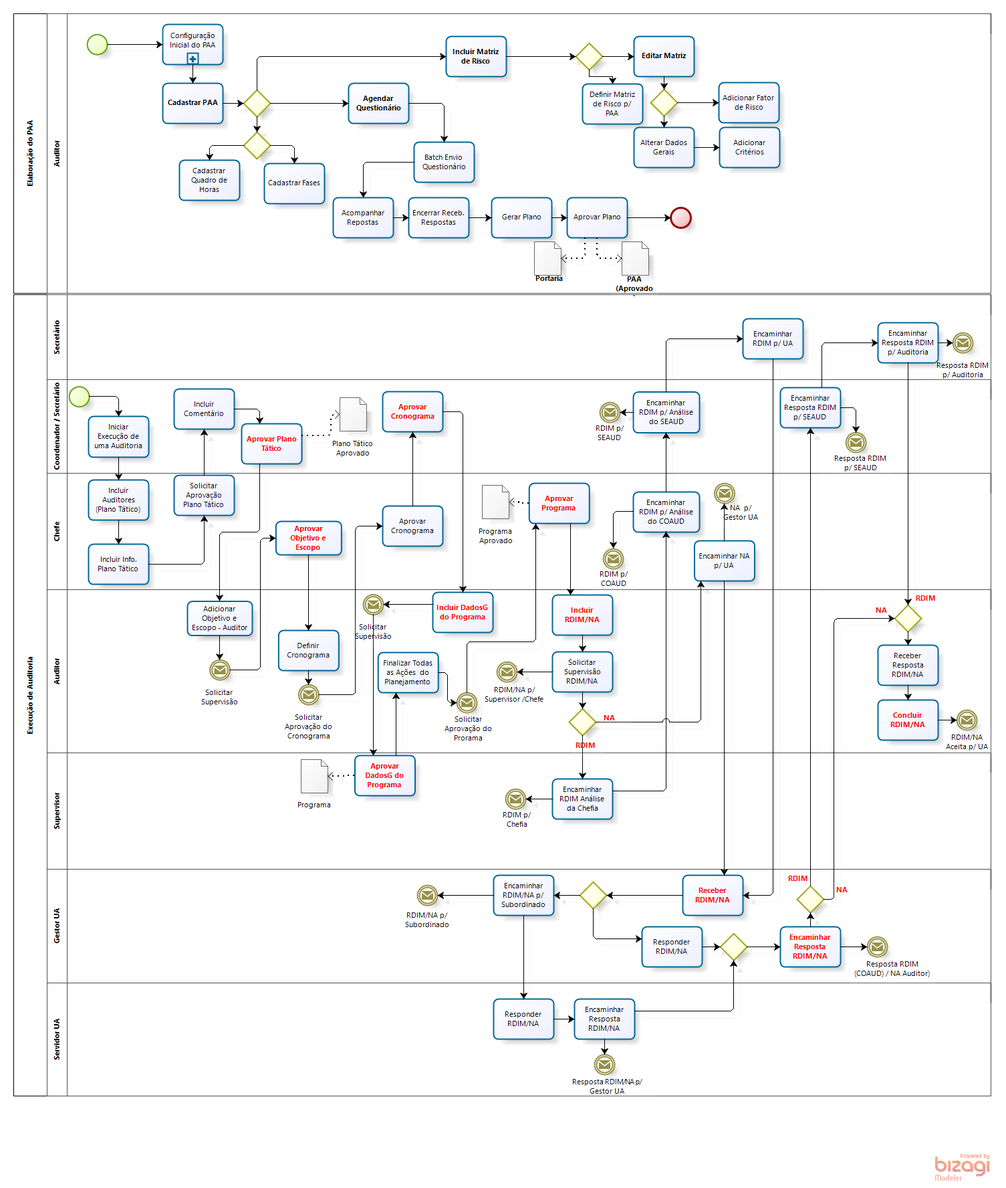
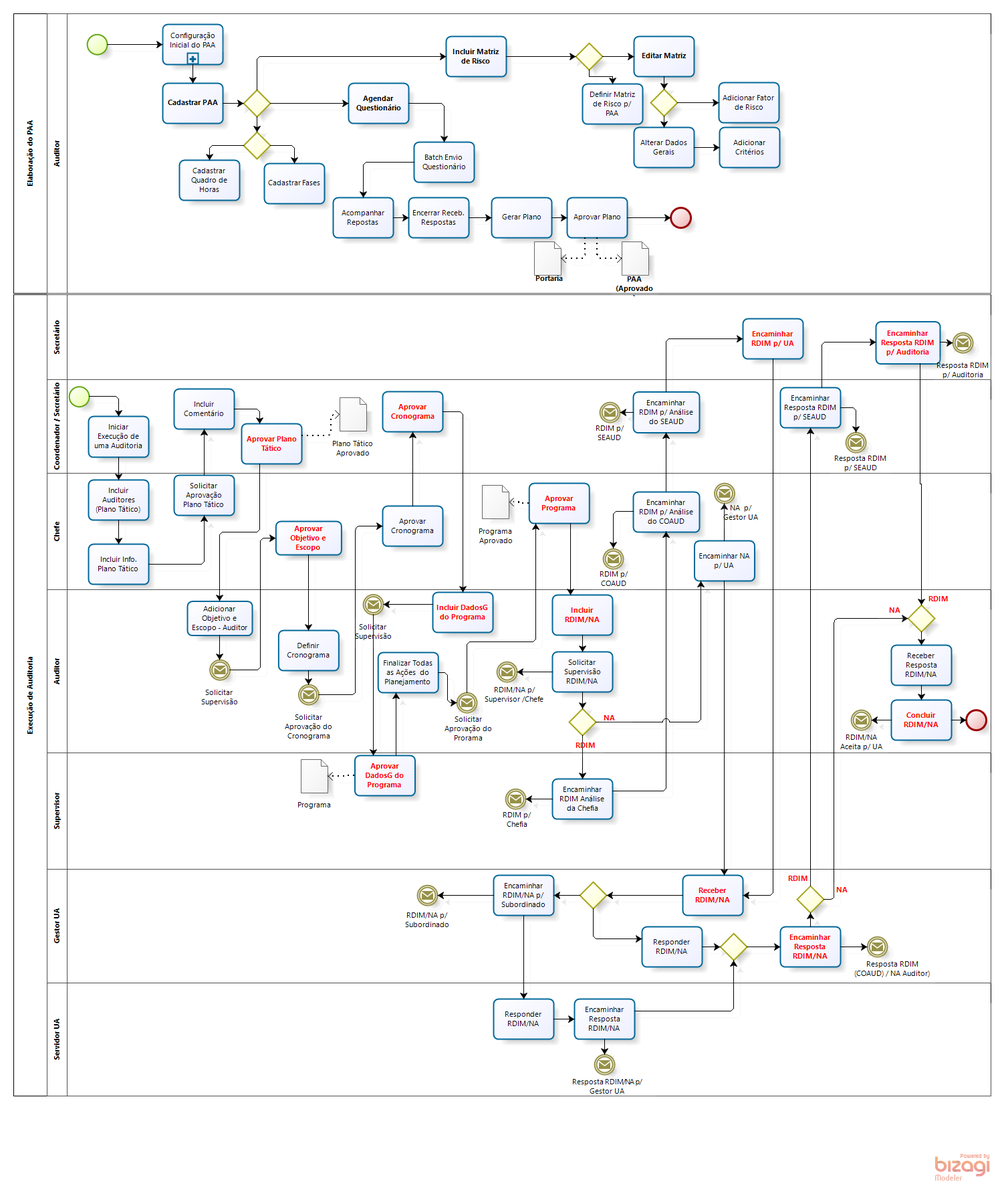
inclusão estado final

Changed region(s): [[0.8432, 0.4955, 0.9993, 0.6503], [0.8432, 0.2787, 0.9369, 0.3097], [0.7495, 0.2787, 0.7807, 0.3097]]

diff --git a/libs/js/json/configuration.json.js b/libs/js/json/configuration.json.js
@@ -1,1 +1,1 @@
-Bizagi.AppModel = {"personalized":false,"userLogoName":"\\libs\\img\\biz-ex-logo.png","bizagiUrl":"http://www.bizagi.com","productName":"Bizagi Process Modeler","modelName":"Modelo-Auditoria-Auditse-Mar2022","publishDate":"11/04/2022 15:09:28","pages":[{"id":"d9d00fad-af1b-4e36-8f85-a32fcf3fabb2","name":"Auditoria-AUDITSE","version":"1.0","author":"marco.fagundes","image":"files\\diagrams\\Auditoria_AUDITSE.png","isSubprocessPage":false,"elements":[{"id":"cdb811c3-db5f-474d-a92e-74e034d00939","name":"Elaboração do PAA","elementImage":"files\\bpmnElements\\Participant.png","imageBounds":{"points":[{"x":20.0,"y":20.0}],"radius":0.0,"height":418.0,"width":50.0,"shape":"rect"},"elementType":"Participant","pageElements":[{"id":"0f4d90c4-25eb-4bb4-8112-ff71532773ba","name":"None","elementImage":"files\\bpmnElements\\NoneStart.png","imageBounds":{"points":[{"x":130.0,"y":51.0}],"radius":15.0,"height":30.0,"width":30.0,"shape":"circle"},"elementType":"NoneStart"},{"id":"db697634-05e9-4420-bfb9-722cca75cc9e","name":"Configuração Inicial do PAA","elementImage":"files\\bpmnElements\\SubProcess.png","imageBounds":{"points":[{"x":243.0,"y":36.0}],"radius":0.0,"height":60.0,"width":90.0,"shape":"rect"},"elementType":"SubProcess","properties":[]},{"id":"d4d45024-5d62-435c-858c-c89209b5867d","name":"Cadastrar PAA","elementImage":"files\\bpmnElements\\AbstractTask.png","imageBounds":{"points":[{"x":243.0,"y":124.0}],"radius":0.0,"height":60.0,"width":90.0,"shape":"rect"},"elementType":"AbstractTask","properties":[]},{"id":"f3520a76-0c1c-4c07-80db-3bef34a13c8c","name":"Exclusive Gateway","elementImage":"files\\bpmnElements\\ExclusiveGateway.png","imageBounds":{"points":[{"x":364.0,"y":134.0}],"radius":0.0,"height":40.0,"width":40.0,"shape":"poly"},"elementType":"ExclusiveGateway","properties":[],"pageElements":[{"name":"Incluir Matriz de Risco","elementType":"SequenceFlow","properties":[]},{"name":"Agendar Questionário","elementType":"SequenceFlow","properties":[]},{"name":"Gate","elementType":"SequenceFlow","properties":[]}]},{"id":"dd511d74-d944-4596-923b-302c3f1eca49","name":"Incluir Matriz de Risco","elementImage":"files\\bpmnElements\\AbstractTask.png","imageBounds":{"points":[{"x":667.0,"y":54.0}],"radius":0.0,"height":60.0,"width":90.0,"shape":"rect"},"elementType":"AbstractTask","properties":[]},{"id":"6169a1b1-a44e-453b-aacf-2db4d2c795b6","name":"Exclusive Gateway","elementImage":"files\\bpmnElements\\ExclusiveGateway.png","imageBounds":{"points":[{"x":861.0,"y":64.0}],"radius":0.0,"height":40.0,"width":40.0,"shape":"poly"},"elementType":"ExclusiveGateway","properties":[],"pageElements":[{"name":"Definir Matriz de Risco p/ PAA","elementType":"SequenceFlow","properties":[]},{"name":"Editar Matriz","elementType":"SequenceFlow","properties":[]}]},{"id":"ccb71a5c-7ef9-4b13-bc2b-cf90ee5f05ba","name":"Definir Matriz de Risco p/ PAA","elementImage":"files\\bpmnElements\\AbstractTask.png","imageBounds":{"points":[{"x":871.0,"y":125.0}],"radius":0.0,"height":60.0,"width":90.0,"shape":"rect"},"elementType":"AbstractTask","properties":[]},{"id":"853791a1-e6da-4a81-97f1-3533fee22e99","name":"Editar Matriz","elementImage":"files\\bpmnElements\\AbstractTask.png","imageBounds":{"points":[{"x":948.0,"y":54.0}],"radius":0.0,"height":60.0,"width":90.0,"shape":"rect"},"elementType":"AbstractTask","properties":[]},{"id":"cab781f6-ffe0-43e4-abfa-a0e374c2839d","name":"Exclusive Gateway","elementImage":"files\\bpmnElements\\ExclusiveGateway.png","imageBounds":{"points":[{"x":973.0,"y":133.0}],"radius":0.0,"height":40.0,"width":40.0,"shape":"poly"},"elementType":"ExclusiveGateway","properties":[],"pageElements":[{"name":"Adicionar Fator de Risco","elementType":"SequenceFlow","properties":[]},{"name":"Alterar Dados Gerais","elementType":"SequenceFlow","properties":[]}]},{"id":"4f5227ac-277b-4390-b002-f5765d22f103","name":"Adicionar Fator de Risco","elementImage":"files\\bpmnElements\\AbstractTask.png","imageBounds":{"points":[{"x":1075.0,"y":123.0}],"radius":0.0,"height":60.0,"width":90.0,"shape":"rect"},"elementType":"AbstractTask","properties":[]},{"id":"b27d1985-5816-4744-aa5d-653c25886cde","name":"Alterar Dados Gerais","elementImage":"files\\bpmnElements\\AbstractTask.png","imageBounds":{"points":[{"x":948.0,"y":190.0}],"radius":0.0,"height":60.0,"width":90.0,"shape":"rect"},"elementType":"AbstractTask","properties":[]},{"id":"2f4a9000-0397-410d-9ebf-e2bbadfb67a2","name":"Adicionar Critérios","elementImage":"files\\bpmnElements\\AbstractTask.png","imageBounds":{"points":[{"x":1076.0,"y":190.0}],"radius":0.0,"height":60.0,"width":90.0,"shape":"rect"},"elementType":"AbstractTask","properties":[]},{"id":"03089f01-3eee-4ceb-a0a8-e206d4f3a6cd","name":"Agendar Questionário","elementImage":"files\\bpmnElements\\AbstractTask.png","imageBounds":{"points":[{"x":521.0,"y":124.0}],"radius":0.0,"height":60.0,"width":90.0,"shape":"rect"},"elementType":"AbstractTask","properties":[]},{"id":"6bf82de6-fef3-4524-8025-cefcdee59c24","name":"Batch Envio Questionário","elementImage":"files\\bpmnElements\\AbstractTask.png","imageBounds":{"points":[{"x":619.0,"y":212.0}],"radius":0.0,"height":60.0,"width":90.0,"shape":"rect"},"elementType":"AbstractTask","properties":[]},{"id":"d1868caf-2997-45a7-800c-b685333c40fd","name":"Acompanhar Repostas","elementImage":"files\\bpmnElements\\AbstractTask.png","imageBounds":{"points":[{"x":498.0,"y":295.0}],"radius":0.0,"height":60.0,"width":90.0,"shape":"rect"},"elementType":"AbstractTask","properties":[]},{"id":"17caca8d-9bec-42f9-8406-ad83834ee478","name":"Encerrar Receb. Respostas","elementImage":"files\\bpmnElements\\AbstractTask.png","imageBounds":{"points":[{"x":611.0,"y":295.0}],"radius":0.0,"height":60.0,"width":90.0,"shape":"rect"},"elementType":"AbstractTask","properties":[]},{"id":"b7becbeb-d150-4af1-a528-abbff2a240c0","name":"Gerar Plano","elementImage":"files\\bpmnElements\\AbstractTask.png","imageBounds":{"points":[{"x":735.0,"y":295.0}],"radius":0.0,"height":60.0,"width":90.0,"shape":"rect"},"elementType":"AbstractTask","properties":[]},{"id":"633edda5-1ee0-42a0-9847-78b8a7cb1b72","name":"Aprovar Plano","elementImage":"files\\bpmnElements\\AbstractTask.png","imageBounds":{"points":[{"x":848.0,"y":295.0}],"radius":0.0,"height":60.0,"width":90.0,"shape":"rect"},"elementType":"AbstractTask","properties":[]},{"id":"9d259cf3-9f63-4bfc-bdf8-66297273c822","name":"None","elementImage":"files\\bpmnElements\\NoneEnd.png","imageBounds":{"points":[{"x":1003.0,"y":310.0}],"radius":15.0,"height":30.0,"width":30.0,"shape":"circle"},"elementType":"NoneEnd"},{"id":"259c541c-06cb-4d8c-bcae-9fa0512431b9","name":"Exclusive Gateway","elementImage":"files\\bpmnElements\\ExclusiveGateway.png","imageBounds":{"points":[{"x":364.0,"y":197.0}],"radius":0.0,"height":40.0,"width":40.0,"shape":"poly"},"elementType":"ExclusiveGateway","properties":[],"pageElements":[{"name":"Cadastrar Quadro de Horas","elementType":"SequenceFlow","properties":[]},{"name":"Cadastrar Fases","elementType":"SequenceFlow","properties":[]}]},{"id":"9083a6dd-c631-436f-b374-32a8a3778318","name":"Cadastrar Fases","elementImage":"files\\bpmnElements\\AbstractTask.png","imageBounds":{"points":[{"x":395.0,"y":244.0}],"radius":0.0,"height":60.0,"width":90.0,"shape":"rect"},"elementType":"AbstractTask","properties":[]},{"id":"c57c8d61-8362-464c-b5e7-ab6403ff45a4","name":"Cadastrar Quadro de Horas","elementImage":"files\\bpmnElements\\AbstractTask.png","imageBounds":{"points":[{"x":268.0,"y":239.0}],"radius":0.0,"height":60.0,"width":90.0,"shape":"rect"},"elementType":"AbstractTask","properties":[]},{"id":"6ac5e1e9-7fa1-410c-8a59-3eb928c8ed2f","name":"PAA (Aprovado)","elementImage":"files\\bpmnElements\\DataObject.png","imageBounds":{"points":[{"x":930.0,"y":361.0}],"radius":0.0,"height":50.0,"width":40.0,"shape":"rect"},"elementType":"DataObject","properties":[{"name":"State","type":"text"}]},{"id":"8b5eccf9-4fbf-433d-84f8-65a2491fad27","name":"Portaria","elementImage":"files\\bpmnElements\\DataObject.png","imageBounds":{"points":[{"x":799.0,"y":361.0}],"radius":0.0,"height":50.0,"width":40.0,"shape":"rect"},"elementType":"DataObject","properties":[{"name":"State","type":"text"}]},{"id":"15615a7d-fd6f-4243-8fe9-9978eab8b1dd","name":"Auditor","elementImage":"files\\bpmnElements\\Lane.png","imageBounds":{"points":[{"x":70.0,"y":20.0}],"radius":0.0,"height":418.0,"width":30.0,"shape":"rect"},"elementType":"Lane"}]},{"id":"dd0ad453-cd77-49ce-8d5e-bbc712e50182","name":"Execução de Auditoria","elementImage":"files\\bpmnElements\\Participant.png","imageBounds":{"points":[{"x":20.0,"y":440.0}],"radius":0.0,"height":1198.0,"width":50.0,"shape":"rect"},"elementType":"Participant","pageElements":[]}]}],"texts":{"tableOfContents":"Table of Contents","pageNumber":"Page","pageNumberLabelOf":"of","version":"Version","author":"Author","description":"Description","mainPool":"Main Process","mainPoolDescription":"Main Process Description","processDiagrams":"Process Diagrams","processElements":"Process Elements","elements":"Process Elements","defaultElementName":"Element","performers":"Performers","connectors":"Connectors","connector":"Connector","home":"Home","search":"Search","goToParentProcess":"<< Go to Parent Process","visitBizagi":"Visit bizagi.com","contains":"Contains {0} Sub-Processes","showAll":"Show all","fullScreen":"Full screen","zoomIn":"Zoom In","zoomOut":"Zoom Out","close":"Close","menu":"Menu: ","errorPage":"Error when visualizing page","process":"Process","subProcess":"Published Sub-Processes","contain":"Contains","checkAttributes":"Check attributes","checkOverview":"Check overview","unavailableResource":"Unavailable resource","localResource":"Resource can be accessed locally","performer":"Performer","linktoimage":"Link to Image","presentationAction":"Presentation Actions","searchGlobal":"Search all","searchLocal":"Search in this process","searchResults":"No Results Found","titlePage":"Start","emptyElement":"This element has not yet been documented","unsupported":"Your browser does not support content displayed by this page. <br> We recommend you upgrading your browser.","details":"Details","expand":"Expand","mainPoolProperties":"Main Process properties","cannotVisualize":"The page cannot be displayed","resourceNotFound":"The requested resource was not found:"},"searchMap":[{"containerId":"d9d00fad-af1b-4e36-8f85-a32fcf3fabb2","containerName":"Auditoria-AUDITSE","isSubprocess":false,"elements":[{"id":"cdb811c3-db5f-474d-a92e-74e034d00939","value":"Elaboração do PAA"},{"id":"15615a7d-fd6f-4243-8fe9-9978eab8b1dd","value":"Auditor"},{"id":"6ac5e1e9-7fa1-410c-8a59-3eb928c8ed2f","value":"PAA (Aprovado)"},{"id":"8b5eccf9-4fbf-433d-84f8-65a2491fad27","value":"Portaria"},{"id":"0f4d90c4-25eb-4bb4-8112-ff71532773ba","value":""},{"id":"9083a6dd-c631-436f-b374-32a8a3778318","value":"Cadastrar Fases"},{"id":"db697634-05e9-4420-bfb9-722cca75cc9e","value":"Configuração Inicial do PAA"},{"id":"c57c8d61-8362-464c-b5e7-ab6403ff45a4","value":"Cadastrar Quadro de Horas"},{"id":"dd511d74-d944-4596-923b-302c3f1eca49","value":"Incluir Matriz de Risco"},{"id":"4f5227ac-277b-4390-b002-f5765d22f103","value":"Adicionar Fator de Risco"},{"id":"2f4a9000-0397-410d-9ebf-e2bbadfb67a2","value":"Adicionar Critérios"},{"id":"d4d45024-5d62-435c-858c-c89209b5867d","value":"Cadastrar PAA"},{"id":"ccb71a5c-7ef9-4b13-bc2b-cf90ee5f05ba","value":"Definir Matriz de Risco p/ PAA"},{"id":"853791a1-e6da-4a81-97f1-3533fee22e99","value":"Editar Matriz"},{"id":"b27d1985-5816-4744-aa5d-653c25886cde","value":"Alterar Dados Gerais"},{"id":"cab781f6-ffe0-43e4-abfa-a0e374c2839d","value":""},{"id":"6169a1b1-a44e-453b-aacf-2db4d2c795b6","value":""},{"id":"03089f01-3eee-4ceb-a0a8-e206d4f3a6cd","value":"Agendar Questionário"},{"id":"6bf82de6-fef3-4524-8025-cefcdee59c24","value":"Batch Envio Questionário"},{"id":"d1868caf-2997-45a7-800c-b685333c40fd","value":"Acompanhar Repostas"},{"id":"17caca8d-9bec-42f9-8406-ad83834ee478","value":"Encerrar Receb. Respostas"},{"id":"f3520a76-0c1c-4c07-80db-3bef34a13c8c","value":""},{"id":"b7becbeb-d150-4af1-a528-abbff2a240c0","value":"Gerar Plano"},{"id":"633edda5-1ee0-42a0-9847-78b8a7cb1b72","value":"Aprovar Plano"},{"id":"9d259cf3-9f63-4bfc-bdf8-66297273c822","value":""},{"id":"259c541c-06cb-4d8c-bcae-9fa0512431b9","value":""},{"id":"78f9690a-a1d1-4607-ba1f-6ccf139f0147"},{"id":"4293bc10-2dd5-4e2e-865d-0da06773c64b"},{"id":"dd0ad453-cd77-49ce-8d5e-bbc712e50182","value":"Execução de Auditoria"},{"id":"767baa33-e412-4fce-a3f3-fa87cb1cf178","value":"Secretário "},{"id":"9fe3a725-7168-4817-bd19-bb8388ffbd72","value":"Coordenador / Secretário"},{"id":"f7736ab8-1f0a-46cd-95be-670d5dc5c3d1","value":"Chefe "},{"id":"5abb0c18-8f97-4ff1-8551-898f076e8293","value":"Auditor"},{"id":"14f51df2-0b10-41d5-b049-8d445812e753","value":"Supervisor"},{"id":"3dc07876-6faf-443b-8f28-0e8a332bd141","value":"Gestor UA"},{"id":"5ddf4900-a3d7-4e21-8d7f-13cc59fb03a7","value":"Servidor UA"},{"id":"958ffd6d-5653-45b5-874e-5fc1639906db","value":"Plano Tático Aprovado"},{"id":"2993973b-4776-4b45-8ac2-85cda1fb1d34","value":"Programa"},{"id":"c9aefb02-0ad5-4c19-8d88-11760f2fdd73","value":"Programa Aprovado"},{"id":"628d8b97-54b2-4483-824b-b7eeb6959c76","value":""},{"id":"1efeee2b-f6fc-492f-ba5e-64a9f0d6d86c","value":"Iniciar Execução de uma Auditoria"},{"id":"0c80a8f3-ad3a-4874-ab53-fdbf216ea1d6","value":"Incluir Auditores (Plano Tático)"},{"id":"858b2199-06af-4377-beef-838866867833","value":"Incluir Info. Plano Tático"},{"id":"d5e5a81b-e43b-4348-9afb-8cb70d88476b","value":"Solicitar Aprovação Plano Tático"},{"id":"fbc2d642-8bd0-4fbe-8fb0-903d54bc0898","value":"Incluir Comentário"},{"id":"1a58d7fb-caca-40de-9025-fac259a9045c","value":"Aprovar Plano Tático"},{"id":"577af458-dc17-4923-85f8-e430bfe1b1ff","value":"Adicionar Objetivo e Escopo - Auditoria"},{"id":"a9dc3468-4531-45c3-8a44-987e3f912cef","value":"Aprovar Objetivo e Escopo"},{"id":"64c8eeda-e563-41b2-a2dd-01b1f5d7c9c6","value":"Definir Cronograma"},{"id":"546cbfa2-71d6-4c97-bec9-54ab6b5f0a5d","value":"Solicitar Aprovação do Cronograma"},{"id":"14a51966-ddb8-4481-b1a6-1f230e6d44a4","value":"Aprovar Cronograma"},{"id":"61b38744-4876-491e-9c01-97f26ffd0ed4","value":"Aprovar Cronograma"},{"id":"80ba85f9-3d07-446e-a8b3-6040ccd3c10d","value":"Incluir DadosG do Programa"},{"id":"bd2d891f-429c-432d-b62e-7af55632a9e9","value":"Solicitar Supervisão"},{"id":"d56e26cb-796b-4341-aabc-9844465fe9d1","value":"Aprovar DadosG do Programa"},{"id":"462e3744-8f15-4c5b-85f2-c86671a3e3d6","value":"Solicitar Supervisão"},{"id":"c8e4c479-0d4d-4cd6-a670-356086ee7eba","value":"Aprovar Programa"},{"id":"dedd5810-2752-46f2-be00-89d6982ba2c6","value":"Finalizar Todas as Ações  do Planejamento"},{"id":"88ec57f0-b778-458f-b9f0-64d95df4d71a","value":"Solicitar Aprovação do Prorama"},{"id":"0cfb53d5-847a-45a7-9298-92199366b6fc","value":"Incluir RDIM/NA"},{"id":"3c7faf11-ee68-46e1-afb9-f4889d71f378","value":"Encaminhar RDIM p/ Análise do SEAUD"},{"id":"150eb885-eef7-4f4f-9819-e9e55f7dd310","value":"Encaminhar RDIM p/ UA"},{"id":"47fe2cbe-b0c3-4468-a9a0-d9015acac756","value":"RDIM p/ SEAUD"},{"id":"d419f35e-2132-4771-ae90-1ef808179960","value":"Receber RDIM/NA"},{"id":"89fcbe19-426c-47ef-98b3-9332a51a0a4b","value":"Responder RDIM/NA"},{"id":"41f84085-051c-4867-8948-77d57ad984a3","value":"Encaminhar Resposta RDIM/NA"},{"id":"f291643c-6018-48a0-a384-6f3e23381712","value":""},{"id":"6ebf1bfe-03bf-492b-9093-44178b83f271","value":"Encaminhar RDIM/NA p/ Subordinado"},{"id":"f9aad994-1d76-48d5-8cb7-e824c72d2ce3","value":"RDIM/NA p/ Subordinado"},{"id":"08d1ae77-3418-494e-801e-48a3fc54389b","value":"Responder RDIM/NA"},{"id":"1111f161-2d40-48b4-9505-53f615846a00","value":"Encaminhar Resposta RDIM/NA"},{"id":"69180056-9af3-4fb3-a881-f2d7d34caaac","value":""},{"id":"394f6718-5f17-487d-a671-399d7a6b4a9d","value":"RDIM p/ COAUD"},{"id":"9d3c7a74-b515-4232-bafe-b79fa064f328","value":"Encaminhar RDIM p/ Análise do COAUD"},{"id":"620421c8-34ea-4d16-9a78-bc4fff00a9ba","value":"RDIM p/ Chefia"},{"id":"a74d4ef0-d27f-412c-b8af-cd28c8b5ff8f","value":"Encaminhar RDIM Análise da Chefia"},{"id":"7958553b-ca32-4855-9052-4e5edcaf738c","value":"RDIM/NA p/ Supervisor /Chefe"},{"id":"74e72327-f3b8-4076-b2cd-22b204192c67","value":"Solicitar Supervisão RDIM/NA"},{"id":"4a828bc7-0ac2-4cfb-938a-28abf2376c45","value":"Resposta RDIM/NA p/ Gestor UA"},{"id":"15353d47-84a8-4d92-b633-c3c6a7b8566f","value":"Encaminhar Resposta RDIM p/ SEAUD"},{"id":"12ba8e25-c364-4f00-b510-3d90d015ac2b","value":"Resposta RDIM (COAUD) / NA Auditor)"},{"id":"e42f5235-2fa0-4561-8015-ec333156c198","value":"Encaminhar Resposta RDIM p/ Auditoria"},{"id":"fdc8fe8f-273c-4df6-969b-5fff56077361","value":"Receber  Resposta RDIM/NA"},{"id":"67b9fcb9-795c-4778-b539-1b502c4241fb","value":"Resposta RDIM p/ Auditoria"},{"id":"2cade44e-9fb5-4f06-a9a5-ef0aab7b1a8e","value":"Concluir RDIM/NA"},{"id":"7a25afc3-c181-420d-87dc-270f0191b592","value":"RDIM/NA Aceita p/ UA"},{"id":"4b4d902f-0692-4cf0-8916-290fda143efd","value":""},{"id":"102c3379-e9d9-4d4f-9010-0627ac33633a","value":"Encaminhar NA p/ UA"},{"id":"902f8168-b21d-4335-a2ba-c8474e8ee39f","value":"NA  p/  Gestor UA"},{"id":"2e7d0e48-75c1-46e0-8b05-cd525f0c8b8a","value":"NA"},{"id":"b27a5687-7999-4987-a502-7292422e99d7","value":""},{"id":"44bf2016-2b33-43ba-b88f-70ef26cc48a5","value":"Resposta RDIM p/ SEAUD"},{"id":"b9a6260b-c05b-47d1-801a-819677cd5e63"},{"id":"5f44312a-339b-4dcb-b7d4-726e23555a73"},{"id":"ff61e9ba-4407-4f5b-8b5f-3dc47361b79f","value":""}]},{"containerId":"db697634-05e9-4420-bfb9-722cca75cc9e","containerName":"Configuração Inicial do PAA","isSubprocess":true,"elements":[]}]}
+Bizagi.AppModel = {"personalized":false,"userLogoName":"\\libs\\img\\biz-ex-logo.png","bizagiUrl":"http://www.bizagi.com","productName":"Bizagi Process Modeler","modelName":"Modelo-Auditoria-Auditse-Mar2022","publishDate":"11/04/2022 15:26:57","pages":[{"id":"d9d00fad-af1b-4e36-8f85-a32fcf3fabb2","name":"Auditoria-AUDITSE","version":"1.0","author":"marco.fagundes","image":"files\\diagrams\\Auditoria_AUDITSE.png","isSubprocessPage":false,"elements":[{"id":"cdb811c3-db5f-474d-a92e-74e034d00939","name":"Elaboração do PAA","elementImage":"files\\bpmnElements\\Participant.png","imageBounds":{"points":[{"x":20.0,"y":20.0}],"radius":0.0,"height":418.0,"width":50.0,"shape":"rect"},"elementType":"Participant","pageElements":[{"id":"0f4d90c4-25eb-4bb4-8112-ff71532773ba","name":"None","elementImage":"files\\bpmnElements\\NoneStart.png","imageBounds":{"points":[{"x":130.0,"y":51.0}],"radius":15.0,"height":30.0,"width":30.0,"shape":"circle"},"elementType":"NoneStart"},{"id":"db697634-05e9-4420-bfb9-722cca75cc9e","name":"Configuração Inicial do PAA","elementImage":"files\\bpmnElements\\SubProcess.png","imageBounds":{"points":[{"x":243.0,"y":36.0}],"radius":0.0,"height":60.0,"width":90.0,"shape":"rect"},"elementType":"SubProcess","properties":[]},{"id":"d4d45024-5d62-435c-858c-c89209b5867d","name":"Cadastrar PAA","elementImage":"files\\bpmnElements\\AbstractTask.png","imageBounds":{"points":[{"x":243.0,"y":124.0}],"radius":0.0,"height":60.0,"width":90.0,"shape":"rect"},"elementType":"AbstractTask","properties":[]},{"id":"f3520a76-0c1c-4c07-80db-3bef34a13c8c","name":"Exclusive Gateway","elementImage":"files\\bpmnElements\\ExclusiveGateway.png","imageBounds":{"points":[{"x":364.0,"y":134.0}],"radius":0.0,"height":40.0,"width":40.0,"shape":"poly"},"elementType":"ExclusiveGateway","properties":[],"pageElements":[{"name":"Incluir Matriz de Risco","elementType":"SequenceFlow","properties":[]},{"name":"Agendar Questionário","elementType":"SequenceFlow","properties":[]},{"name":"Gate","elementType":"SequenceFlow","properties":[]}]},{"id":"dd511d74-d944-4596-923b-302c3f1eca49","name":"Incluir Matriz de Risco","elementImage":"files\\bpmnElements\\AbstractTask.png","imageBounds":{"points":[{"x":667.0,"y":54.0}],"radius":0.0,"height":60.0,"width":90.0,"shape":"rect"},"elementType":"AbstractTask","properties":[]},{"id":"6169a1b1-a44e-453b-aacf-2db4d2c795b6","name":"Exclusive Gateway","elementImage":"files\\bpmnElements\\ExclusiveGateway.png","imageBounds":{"points":[{"x":861.0,"y":64.0}],"radius":0.0,"height":40.0,"width":40.0,"shape":"poly"},"elementType":"ExclusiveGateway","properties":[],"pageElements":[{"name":"Definir Matriz de Risco p/ PAA","elementType":"SequenceFlow","properties":[]},{"name":"Editar Matriz","elementType":"SequenceFlow","properties":[]}]},{"id":"ccb71a5c-7ef9-4b13-bc2b-cf90ee5f05ba","name":"Definir Matriz de Risco p/ PAA","elementImage":"files\\bpmnElements\\AbstractTask.png","imageBounds":{"points":[{"x":871.0,"y":125.0}],"radius":0.0,"height":60.0,"width":90.0,"shape":"rect"},"elementType":"AbstractTask","properties":[]},{"id":"853791a1-e6da-4a81-97f1-3533fee22e99","name":"Editar Matriz","elementImage":"files\\bpmnElements\\AbstractTask.png","imageBounds":{"points":[{"x":948.0,"y":54.0}],"radius":0.0,"height":60.0,"width":90.0,"shape":"rect"},"elementType":"AbstractTask","properties":[]},{"id":"cab781f6-ffe0-43e4-abfa-a0e374c2839d","name":"Exclusive Gateway","elementImage":"files\\bpmnElements\\ExclusiveGateway.png","imageBounds":{"points":[{"x":973.0,"y":133.0}],"radius":0.0,"height":40.0,"width":40.0,"shape":"poly"},"elementType":"ExclusiveGateway","properties":[],"pageElements":[{"name":"Adicionar Fator de Risco","elementType":"SequenceFlow","properties":[]},{"name":"Alterar Dados Gerais","elementType":"SequenceFlow","properties":[]}]},{"id":"4f5227ac-277b-4390-b002-f5765d22f103","name":"Adicionar Fator de Risco","elementImage":"files\\bpmnElements\\AbstractTask.png","imageBounds":{"points":[{"x":1075.0,"y":123.0}],"radius":0.0,"height":60.0,"width":90.0,"shape":"rect"},"elementType":"AbstractTask","properties":[]},{"id":"b27d1985-5816-4744-aa5d-653c25886cde","name":"Alterar Dados Gerais","elementImage":"files\\bpmnElements\\AbstractTask.png","imageBounds":{"points":[{"x":948.0,"y":190.0}],"radius":0.0,"height":60.0,"width":90.0,"shape":"rect"},"elementType":"AbstractTask","properties":[]},{"id":"2f4a9000-0397-410d-9ebf-e2bbadfb67a2","name":"Adicionar Critérios","elementImage":"files\\bpmnElements\\AbstractTask.png","imageBounds":{"points":[{"x":1076.0,"y":190.0}],"radius":0.0,"height":60.0,"width":90.0,"shape":"rect"},"elementType":"AbstractTask","properties":[]},{"id":"03089f01-3eee-4ceb-a0a8-e206d4f3a6cd","name":"Agendar Questionário","elementImage":"files\\bpmnElements\\AbstractTask.png","imageBounds":{"points":[{"x":521.0,"y":124.0}],"radius":0.0,"height":60.0,"width":90.0,"shape":"rect"},"elementType":"AbstractTask","properties":[]},{"id":"6bf82de6-fef3-4524-8025-cefcdee59c24","name":"Batch Envio Questionário","elementImage":"files\\bpmnElements\\AbstractTask.png","imageBounds":{"points":[{"x":619.0,"y":212.0}],"radius":0.0,"height":60.0,"width":90.0,"shape":"rect"},"elementType":"AbstractTask","properties":[]},{"id":"d1868caf-2997-45a7-800c-b685333c40fd","name":"Acompanhar Repostas","elementImage":"files\\bpmnElements\\AbstractTask.png","imageBounds":{"points":[{"x":498.0,"y":295.0}],"radius":0.0,"height":60.0,"width":90.0,"shape":"rect"},"elementType":"AbstractTask","properties":[]},{"id":"17caca8d-9bec-42f9-8406-ad83834ee478","name":"Encerrar Receb. Respostas","elementImage":"files\\bpmnElements\\AbstractTask.png","imageBounds":{"points":[{"x":611.0,"y":295.0}],"radius":0.0,"height":60.0,"width":90.0,"shape":"rect"},"elementType":"AbstractTask","properties":[]},{"id":"b7becbeb-d150-4af1-a528-abbff2a240c0","name":"Gerar Plano","elementImage":"files\\bpmnElements\\AbstractTask.png","imageBounds":{"points":[{"x":735.0,"y":295.0}],"radius":0.0,"height":60.0,"width":90.0,"shape":"rect"},"elementType":"AbstractTask","properties":[]},{"id":"633edda5-1ee0-42a0-9847-78b8a7cb1b72","name":"Aprovar Plano","elementImage":"files\\bpmnElements\\AbstractTask.png","imageBounds":{"points":[{"x":848.0,"y":295.0}],"radius":0.0,"height":60.0,"width":90.0,"shape":"rect"},"elementType":"AbstractTask","properties":[]},{"id":"9d259cf3-9f63-4bfc-bdf8-66297273c822","name":"None","elementImage":"files\\bpmnElements\\NoneEnd.png","imageBounds":{"points":[{"x":1003.0,"y":310.0}],"radius":15.0,"height":30.0,"width":30.0,"shape":"circle"},"elementType":"NoneEnd"},{"id":"259c541c-06cb-4d8c-bcae-9fa0512431b9","name":"Exclusive Gateway","elementImage":"files\\bpmnElements\\ExclusiveGateway.png","imageBounds":{"points":[{"x":364.0,"y":197.0}],"radius":0.0,"height":40.0,"width":40.0,"shape":"poly"},"elementType":"ExclusiveGateway","properties":[],"pageElements":[{"name":"Cadastrar Quadro de Horas","elementType":"SequenceFlow","properties":[]},{"name":"Cadastrar Fases","elementType":"SequenceFlow","properties":[]}]},{"id":"9083a6dd-c631-436f-b374-32a8a3778318","name":"Cadastrar Fases","elementImage":"files\\bpmnElements\\AbstractTask.png","imageBounds":{"points":[{"x":395.0,"y":244.0}],"radius":0.0,"height":60.0,"width":90.0,"shape":"rect"},"elementType":"AbstractTask","properties":[]},{"id":"c57c8d61-8362-464c-b5e7-ab6403ff45a4","name":"Cadastrar Quadro de Horas","elementImage":"files\\bpmnElements\\AbstractTask.png","imageBounds":{"points":[{"x":268.0,"y":239.0}],"radius":0.0,"height":60.0,"width":90.0,"shape":"rect"},"elementType":"AbstractTask","properties":[]},{"id":"6ac5e1e9-7fa1-410c-8a59-3eb928c8ed2f","name":"PAA (Aprovado)","elementImage":"files\\bpmnElements\\DataObject.png","imageBounds":{"points":[{"x":930.0,"y":361.0}],"radius":0.0,"height":50.0,"width":40.0,"shape":"rect"},"elementType":"DataObject","properties":[{"name":"State","type":"text"}]},{"id":"8b5eccf9-4fbf-433d-84f8-65a2491fad27","name":"Portaria","elementImage":"files\\bpmnElements\\DataObject.png","imageBounds":{"points":[{"x":799.0,"y":361.0}],"radius":0.0,"height":50.0,"width":40.0,"shape":"rect"},"elementType":"DataObject","properties":[{"name":"State","type":"text"}]},{"id":"15615a7d-fd6f-4243-8fe9-9978eab8b1dd","name":"Auditor","elementImage":"files\\bpmnElements\\Lane.png","imageBounds":{"points":[{"x":70.0,"y":20.0}],"radius":0.0,"height":418.0,"width":30.0,"shape":"rect"},"elementType":"Lane"}]},{"id":"dd0ad453-cd77-49ce-8d5e-bbc712e50182","name":"Execução de Auditoria","elementImage":"files\\bpmnElements\\Participant.png","imageBounds":{"points":[{"x":20.0,"y":440.0}],"radius":0.0,"height":1198.0,"width":50.0,"shape":"rect"},"elementType":"Participant","pageElements":[]}]}],"texts":{"tableOfContents":"Table of Contents","pageNumber":"Page","pageNumberLabelOf":"of","version":"Version","author":"Author","description":"Description","mainPool":"Main Process","mainPoolDescription":"Main Process Description","processDiagrams":"Process Diagrams","processElements":"Process Elements","elements":"Process Elements","defaultElementName":"Element","performers":"Performers","connectors":"Connectors","connector":"Connector","home":"Home","search":"Search","goToParentProcess":"<< Go to Parent Process","visitBizagi":"Visit bizagi.com","contains":"Contains {0} Sub-Processes","showAll":"Show all","fullScreen":"Full screen","zoomIn":"Zoom In","zoomOut":"Zoom Out","close":"Close","menu":"Menu: ","errorPage":"Error when visualizing page","process":"Process","subProcess":"Published Sub-Processes","contain":"Contains","checkAttributes":"Check attributes","checkOverview":"Check overview","unavailableResource":"Unavailable resource","localResource":"Resource can be accessed locally","performer":"Performer","linktoimage":"Link to Image","presentationAction":"Presentation Actions","searchGlobal":"Search all","searchLocal":"Search in this process","searchResults":"No Results Found","titlePage":"Start","emptyElement":"This element has not yet been documented","unsupported":"Your browser does not support content displayed by this page. <br> We recommend you upgrading your browser.","details":"Details","expand":"Expand","mainPoolProperties":"Main Process properties","cannotVisualize":"The page cannot be displayed","resourceNotFound":"The requested resource was not found:"},"searchMap":[{"containerId":"d9d00fad-af1b-4e36-8f85-a32fcf3fabb2","containerName":"Auditoria-AUDITSE","isSubprocess":false,"elements":[{"id":"cdb811c3-db5f-474d-a92e-74e034d00939","value":"Elaboração do PAA"},{"id":"15615a7d-fd6f-4243-8fe9-9978eab8b1dd","value":"Auditor"},{"id":"6ac5e1e9-7fa1-410c-8a59-3eb928c8ed2f","value":"PAA (Aprovado)"},{"id":"8b5eccf9-4fbf-433d-84f8-65a2491fad27","value":"Portaria"},{"id":"0f4d90c4-25eb-4bb4-8112-ff71532773ba","value":""},{"id":"9083a6dd-c631-436f-b374-32a8a3778318","value":"Cadastrar Fases"},{"id":"db697634-05e9-4420-bfb9-722cca75cc9e","value":"Configuração Inicial do PAA"},{"id":"c57c8d61-8362-464c-b5e7-ab6403ff45a4","value":"Cadastrar Quadro de Horas"},{"id":"dd511d74-d944-4596-923b-302c3f1eca49","value":"Incluir Matriz de Risco"},{"id":"4f5227ac-277b-4390-b002-f5765d22f103","value":"Adicionar Fator de Risco"},{"id":"2f4a9000-0397-410d-9ebf-e2bbadfb67a2","value":"Adicionar Critérios"},{"id":"d4d45024-5d62-435c-858c-c89209b5867d","value":"Cadastrar PAA"},{"id":"ccb71a5c-7ef9-4b13-bc2b-cf90ee5f05ba","value":"Definir Matriz de Risco p/ PAA"},{"id":"853791a1-e6da-4a81-97f1-3533fee22e99","value":"Editar Matriz"},{"id":"b27d1985-5816-4744-aa5d-653c25886cde","value":"Alterar Dados Gerais"},{"id":"cab781f6-ffe0-43e4-abfa-a0e374c2839d","value":""},{"id":"6169a1b1-a44e-453b-aacf-2db4d2c795b6","value":""},{"id":"03089f01-3eee-4ceb-a0a8-e206d4f3a6cd","value":"Agendar Questionário"},{"id":"6bf82de6-fef3-4524-8025-cefcdee59c24","value":"Batch Envio Questionário"},{"id":"d1868caf-2997-45a7-800c-b685333c40fd","value":"Acompanhar Repostas"},{"id":"17caca8d-9bec-42f9-8406-ad83834ee478","value":"Encerrar Receb. Respostas"},{"id":"f3520a76-0c1c-4c07-80db-3bef34a13c8c","value":""},{"id":"b7becbeb-d150-4af1-a528-abbff2a240c0","value":"Gerar Plano"},{"id":"633edda5-1ee0-42a0-9847-78b8a7cb1b72","value":"Aprovar Plano"},{"id":"9d259cf3-9f63-4bfc-bdf8-66297273c822","value":""},{"id":"259c541c-06cb-4d8c-bcae-9fa0512431b9","value":""},{"id":"78f9690a-a1d1-4607-ba1f-6ccf139f0147"},{"id":"4293bc10-2dd5-4e2e-865d-0da06773c64b"},{"id":"dd0ad453-cd77-49ce-8d5e-bbc712e50182","value":"Execução de Auditoria"},{"id":"767baa33-e412-4fce-a3f3-fa87cb1cf178","value":"Secretário "},{"id":"9fe3a725-7168-4817-bd19-bb8388ffbd72","value":"Coordenador / Secretário"},{"id":"f7736ab8-1f0a-46cd-95be-670d5dc5c3d1","value":"Chefe "},{"id":"5abb0c18-8f97-4ff1-8551-898f076e8293","value":"Auditor"},{"id":"14f51df2-0b10-41d5-b049-8d445812e753","value":"Supervisor"},{"id":"3dc07876-6faf-443b-8f28-0e8a332bd141","value":"Gestor UA"},{"id":"5ddf4900-a3d7-4e21-8d7f-13cc59fb03a7","value":"Servidor UA"},{"id":"958ffd6d-5653-45b5-874e-5fc1639906db","value":"Plano Tático Aprovado"},{"id":"2993973b-4776-4b45-8ac2-85cda1fb1d34","value":"Programa"},{"id":"c9aefb02-0ad5-4c19-8d88-11760f2fdd73","value":"Programa Aprovado"},{"id":"628d8b97-54b2-4483-824b-b7eeb6959c76","value":""},{"id":"1efeee2b-f6fc-492f-ba5e-64a9f0d6d86c","value":"Iniciar Execução de uma Auditoria"},{"id":"0c80a8f3-ad3a-4874-ab53-fdbf216ea1d6","value":"Incluir Auditores (Plano Tático)"},{"id":"858b2199-06af-4377-beef-838866867833","value":"Incluir Info. Plano Tático"},{"id":"d5e5a81b-e43b-4348-9afb-8cb70d88476b","value":"Solicitar Aprovação Plano Tático"},{"id":"fbc2d642-8bd0-4fbe-8fb0-903d54bc0898","value":"Incluir Comentário"},{"id":"1a58d7fb-caca-40de-9025-fac259a9045c","value":"Aprovar Plano Tático"},{"id":"577af458-dc17-4923-85f8-e430bfe1b1ff","value":"Adicionar Objetivo e Escopo - Auditoria"},{"id":"a9dc3468-4531-45c3-8a44-987e3f912cef","value":"Aprovar Objetivo e Escopo"},{"id":"64c8eeda-e563-41b2-a2dd-01b1f5d7c9c6","value":"Definir Cronograma"},{"id":"546cbfa2-71d6-4c97-bec9-54ab6b5f0a5d","value":"Solicitar Aprovação do Cronograma"},{"id":"14a51966-ddb8-4481-b1a6-1f230e6d44a4","value":"Aprovar Cronograma"},{"id":"61b38744-4876-491e-9c01-97f26ffd0ed4","value":"Aprovar Cronograma"},{"id":"80ba85f9-3d07-446e-a8b3-6040ccd3c10d","value":"Incluir DadosG do Programa"},{"id":"bd2d891f-429c-432d-b62e-7af55632a9e9","value":"Solicitar Supervisão"},{"id":"d56e26cb-796b-4341-aabc-9844465fe9d1","value":"Aprovar DadosG do Programa"},{"id":"462e3744-8f15-4c5b-85f2-c86671a3e3d6","value":"Solicitar Supervisão"},{"id":"c8e4c479-0d4d-4cd6-a670-356086ee7eba","value":"Aprovar Programa"},{"id":"dedd5810-2752-46f2-be00-89d6982ba2c6","value":"Finalizar Todas as Ações  do Planejamento"},{"id":"88ec57f0-b778-458f-b9f0-64d95df4d71a","value":"Solicitar Aprovação do Prorama"},{"id":"0cfb53d5-847a-45a7-9298-92199366b6fc","value":"Incluir RDIM/NA"},{"id":"3c7faf11-ee68-46e1-afb9-f4889d71f378","value":"Encaminhar RDIM p/ Análise do SEAUD"},{"id":"150eb885-eef7-4f4f-9819-e9e55f7dd310","value":"Encaminhar RDIM p/ UA"},{"id":"47fe2cbe-b0c3-4468-a9a0-d9015acac756","value":"RDIM p/ SEAUD"},{"id":"d419f35e-2132-4771-ae90-1ef808179960","value":"Receber RDIM/NA"},{"id":"89fcbe19-426c-47ef-98b3-9332a51a0a4b","value":"Responder RDIM/NA"},{"id":"41f84085-051c-4867-8948-77d57ad984a3","value":"Encaminhar Resposta RDIM/NA"},{"id":"f291643c-6018-48a0-a384-6f3e23381712","value":""},{"id":"6ebf1bfe-03bf-492b-9093-44178b83f271","value":"Encaminhar RDIM/NA p/ Subordinado"},{"id":"f9aad994-1d76-48d5-8cb7-e824c72d2ce3","value":"RDIM/NA p/ Subordinado"},{"id":"08d1ae77-3418-494e-801e-48a3fc54389b","value":"Responder RDIM/NA"},{"id":"1111f161-2d40-48b4-9505-53f615846a00","value":"Encaminhar Resposta RDIM/NA"},{"id":"69180056-9af3-4fb3-a881-f2d7d34caaac","value":""},{"id":"394f6718-5f17-487d-a671-399d7a6b4a9d","value":"RDIM p/ COAUD"},{"id":"9d3c7a74-b515-4232-bafe-b79fa064f328","value":"Encaminhar RDIM p/ Análise do COAUD"},{"id":"620421c8-34ea-4d16-9a78-bc4fff00a9ba","value":"RDIM p/ Chefia"},{"id":"a74d4ef0-d27f-412c-b8af-cd28c8b5ff8f","value":"Encaminhar RDIM Análise da Chefia"},{"id":"7958553b-ca32-4855-9052-4e5edcaf738c","value":"RDIM/NA p/ Supervisor /Chefe"},{"id":"74e72327-f3b8-4076-b2cd-22b204192c67","value":"Solicitar Supervisão RDIM/NA"},{"id":"4a828bc7-0ac2-4cfb-938a-28abf2376c45","value":"Resposta RDIM/NA p/ Gestor UA"},{"id":"15353d47-84a8-4d92-b633-c3c6a7b8566f","value":"Encaminhar Resposta RDIM p/ SEAUD"},{"id":"12ba8e25-c364-4f00-b510-3d90d015ac2b","value":"Resposta RDIM (COAUD) / NA Auditor)"},{"id":"e42f5235-2fa0-4561-8015-ec333156c198","value":"Encaminhar Resposta RDIM p/ Auditoria"},{"id":"fdc8fe8f-273c-4df6-969b-5fff56077361","value":"Receber  Resposta RDIM/NA"},{"id":"67b9fcb9-795c-4778-b539-1b502c4241fb","value":"Resposta RDIM p/ Auditoria"},{"id":"2cade44e-9fb5-4f06-a9a5-ef0aab7b1a8e","value":"Concluir RDIM/NA"},{"id":"7a25afc3-c181-420d-87dc-270f0191b592","value":"RDIM/NA Aceita p/ UA"},{"id":"4b4d902f-0692-4cf0-8916-290fda143efd","value":""},{"id":"102c3379-e9d9-4d4f-9010-0627ac33633a","value":"Encaminhar NA p/ UA"},{"id":"902f8168-b21d-4335-a2ba-c8474e8ee39f","value":"NA  p/  Gestor UA"},{"id":"2e7d0e48-75c1-46e0-8b05-cd525f0c8b8a","value":"NA"},{"id":"b27a5687-7999-4987-a502-7292422e99d7","value":""},{"id":"44bf2016-2b33-43ba-b88f-70ef26cc48a5","value":"Resposta RDIM p/ SEAUD"},{"id":"7e9b721d-8ccd-490d-a622-bf47d47934f0","value":""},{"id":"b9a6260b-c05b-47d1-801a-819677cd5e63"},{"id":"5f44312a-339b-4dcb-b7d4-726e23555a73"},{"id":"ff61e9ba-4407-4f5b-8b5f-3dc47361b79f","value":""}]},{"containerId":"db697634-05e9-4420-bfb9-722cca75cc9e","containerName":"Configuração Inicial do PAA","isSubprocess":true,"elements":[]}]}
